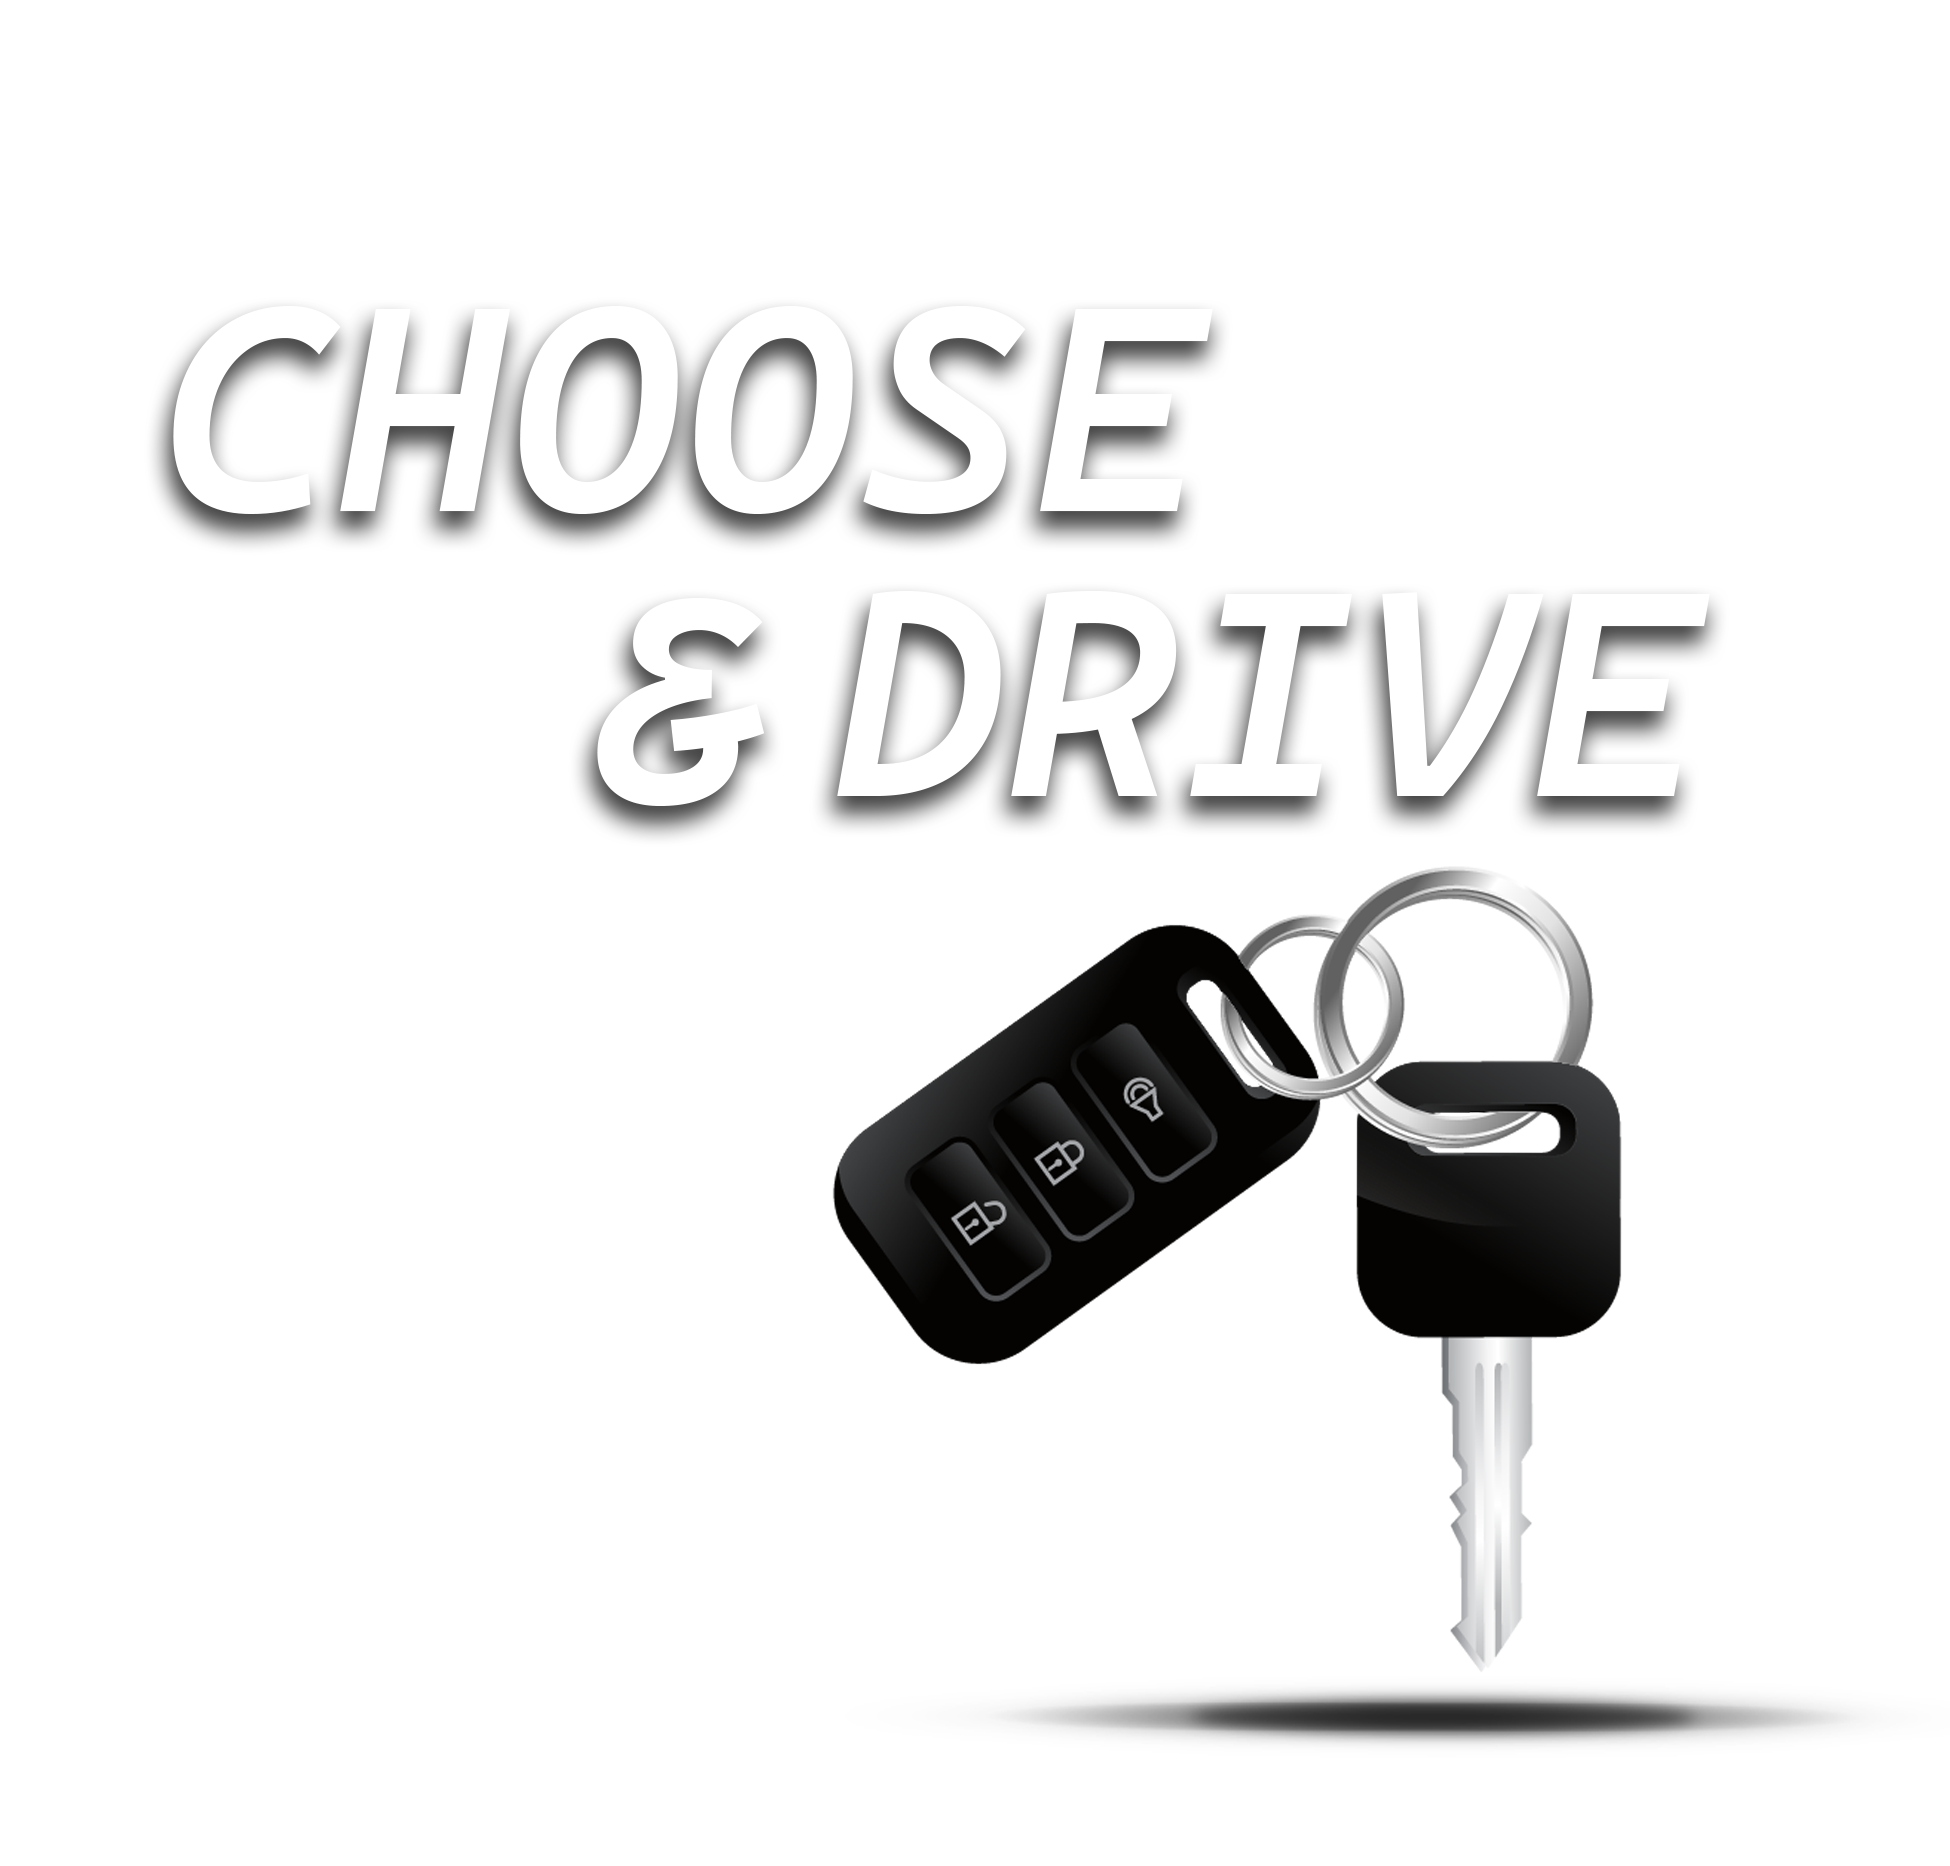
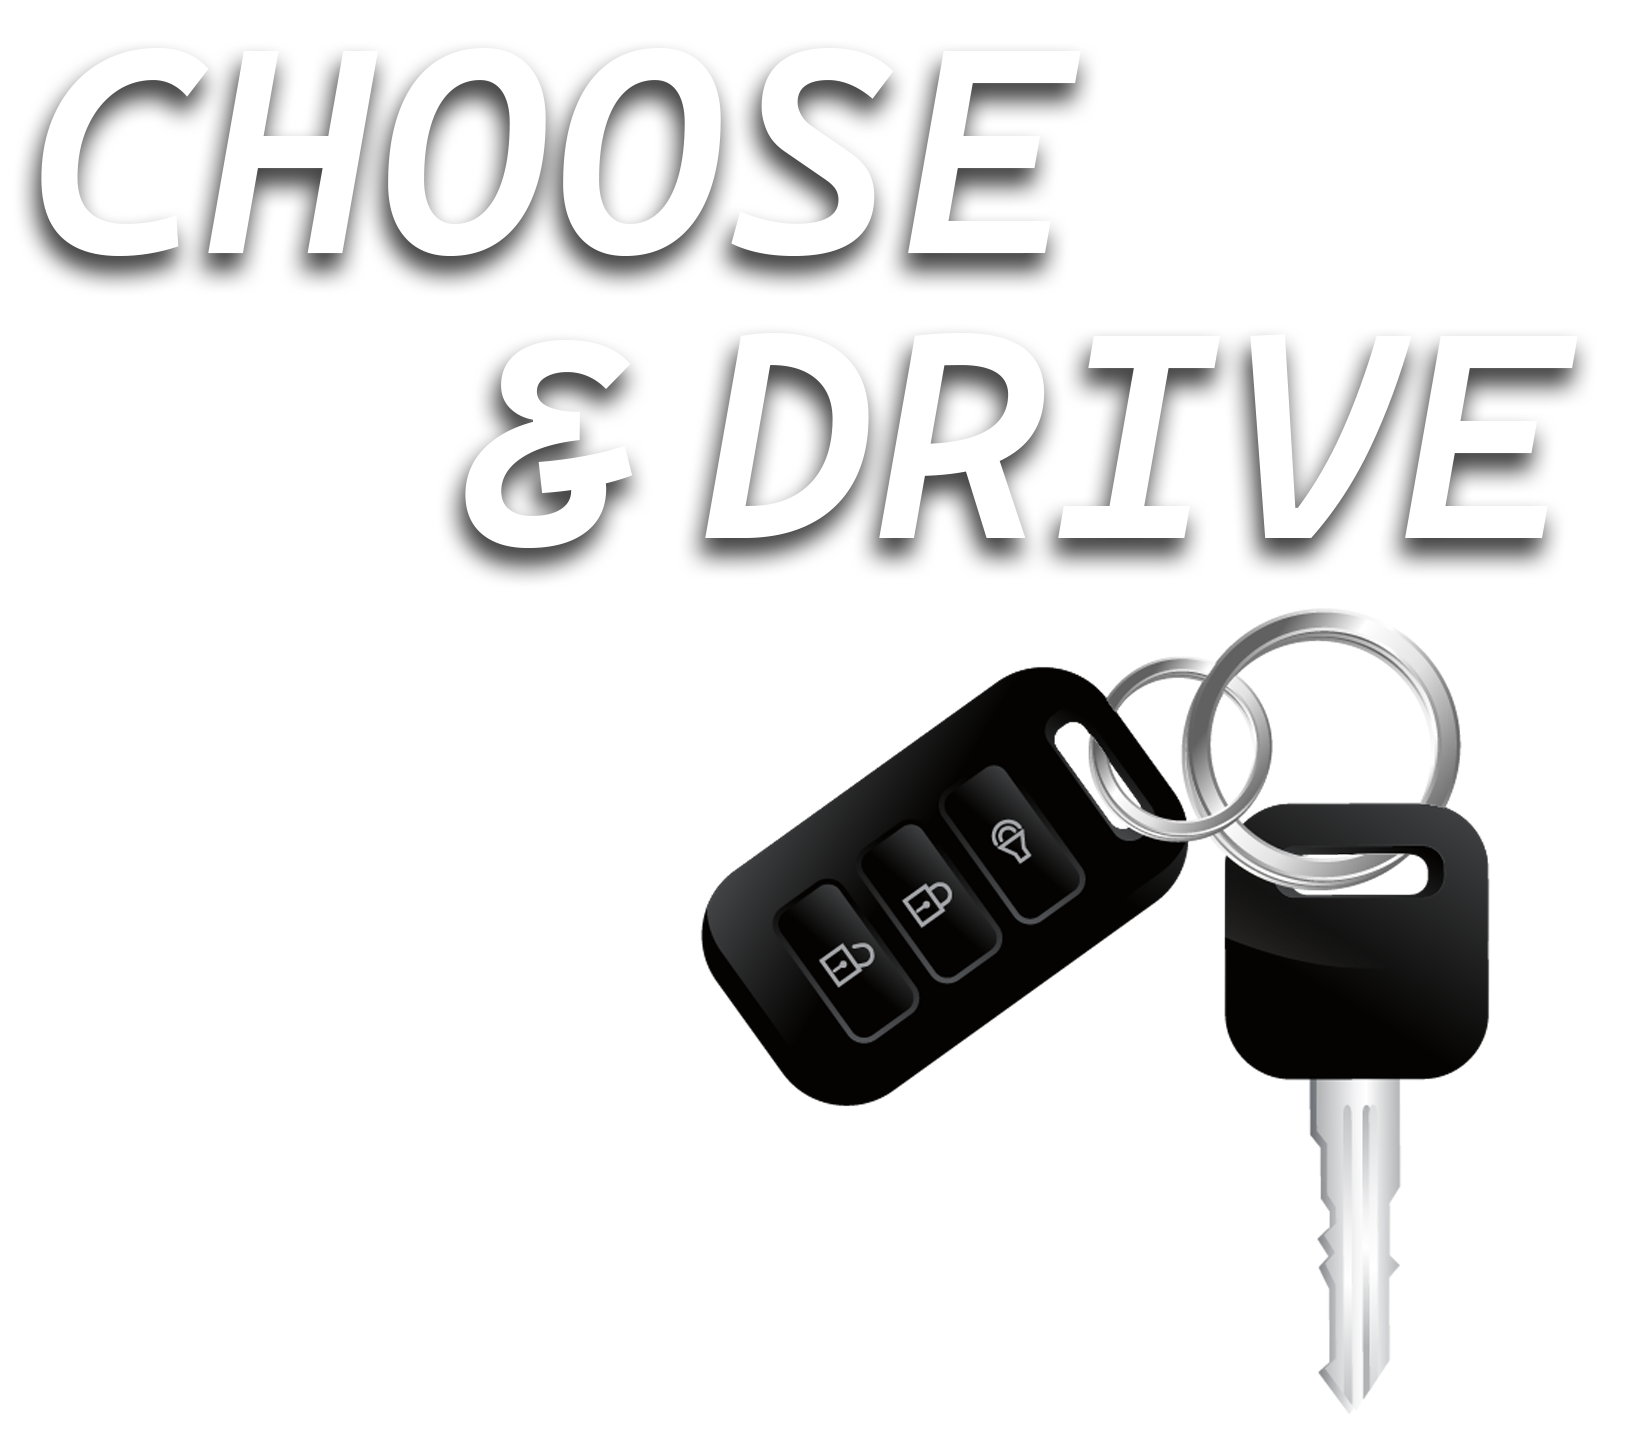
modif infomation car

diff --git a/public/assets/css/style.css b/public/assets/css/style.css
@@ -42,8 +42,8 @@
 }
 .clef{ 
     position:absolute;
-    top: 40px;
-    margin-left: 00px;
+    top: 80px;
+    margin-left: 15px;
     display: block;
 }
 .h4{
@@ -94,15 +94,15 @@ p{color:blue; font-size: 40px;}
     .home{ 
         width: 300px; 
         height: 300px;
-        top:30px;
+        top:15px;
         left: -30px;
         scale: 80%;
     }
 .clef{ 
         position:absolute;
-        top: 330px;
+        top: 360px;
         margin-left: 0px;
-        scale: 70%;
+        scale: 80%;
         /* display: block; */
 }
 .h4{
